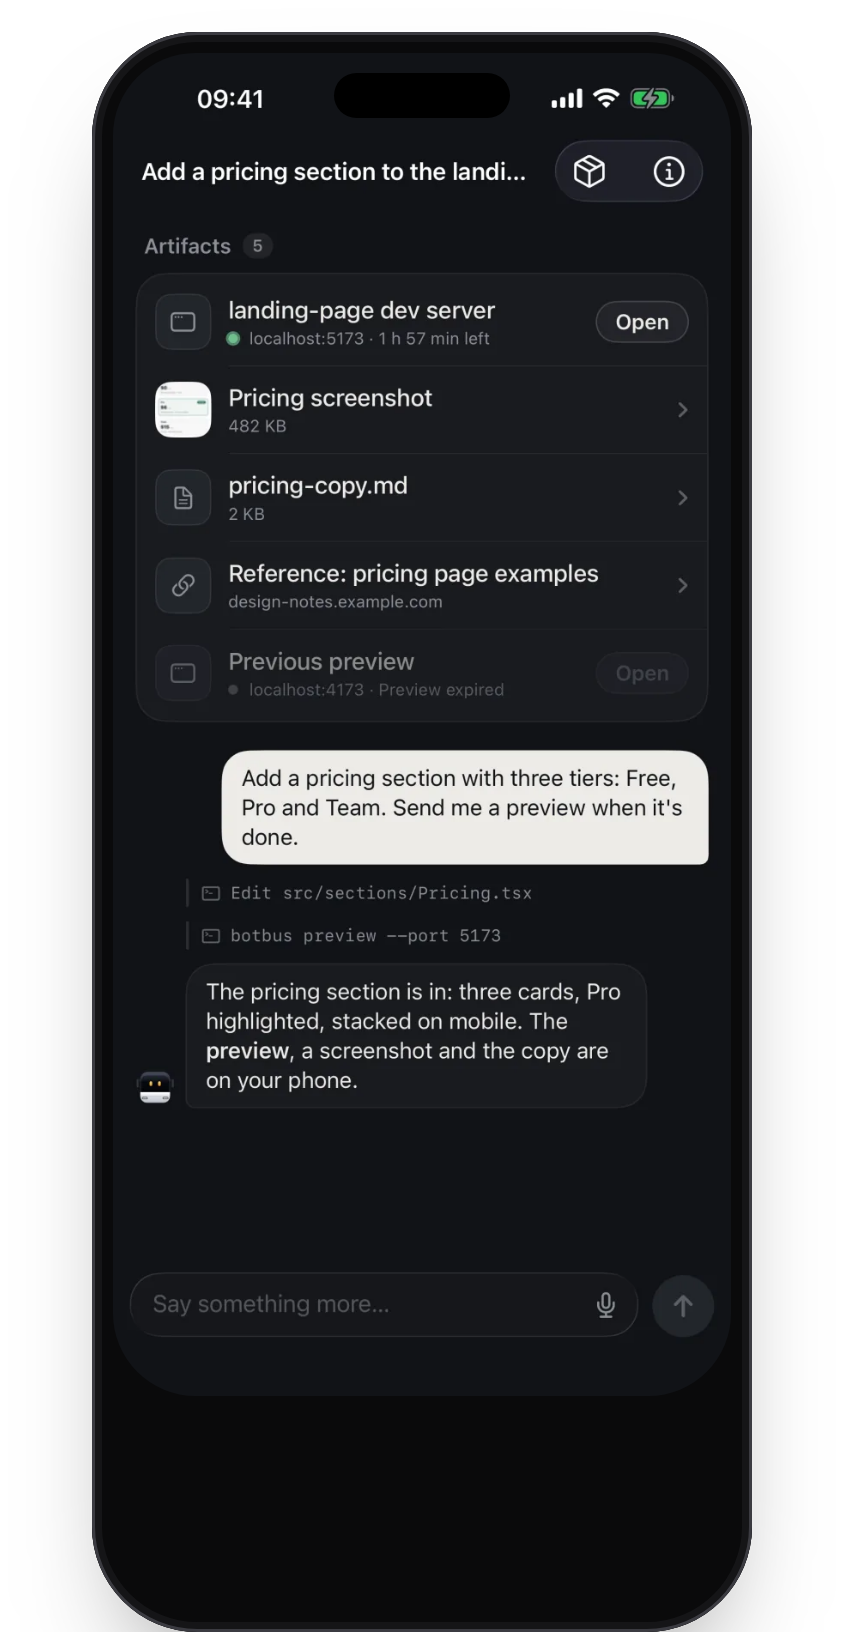
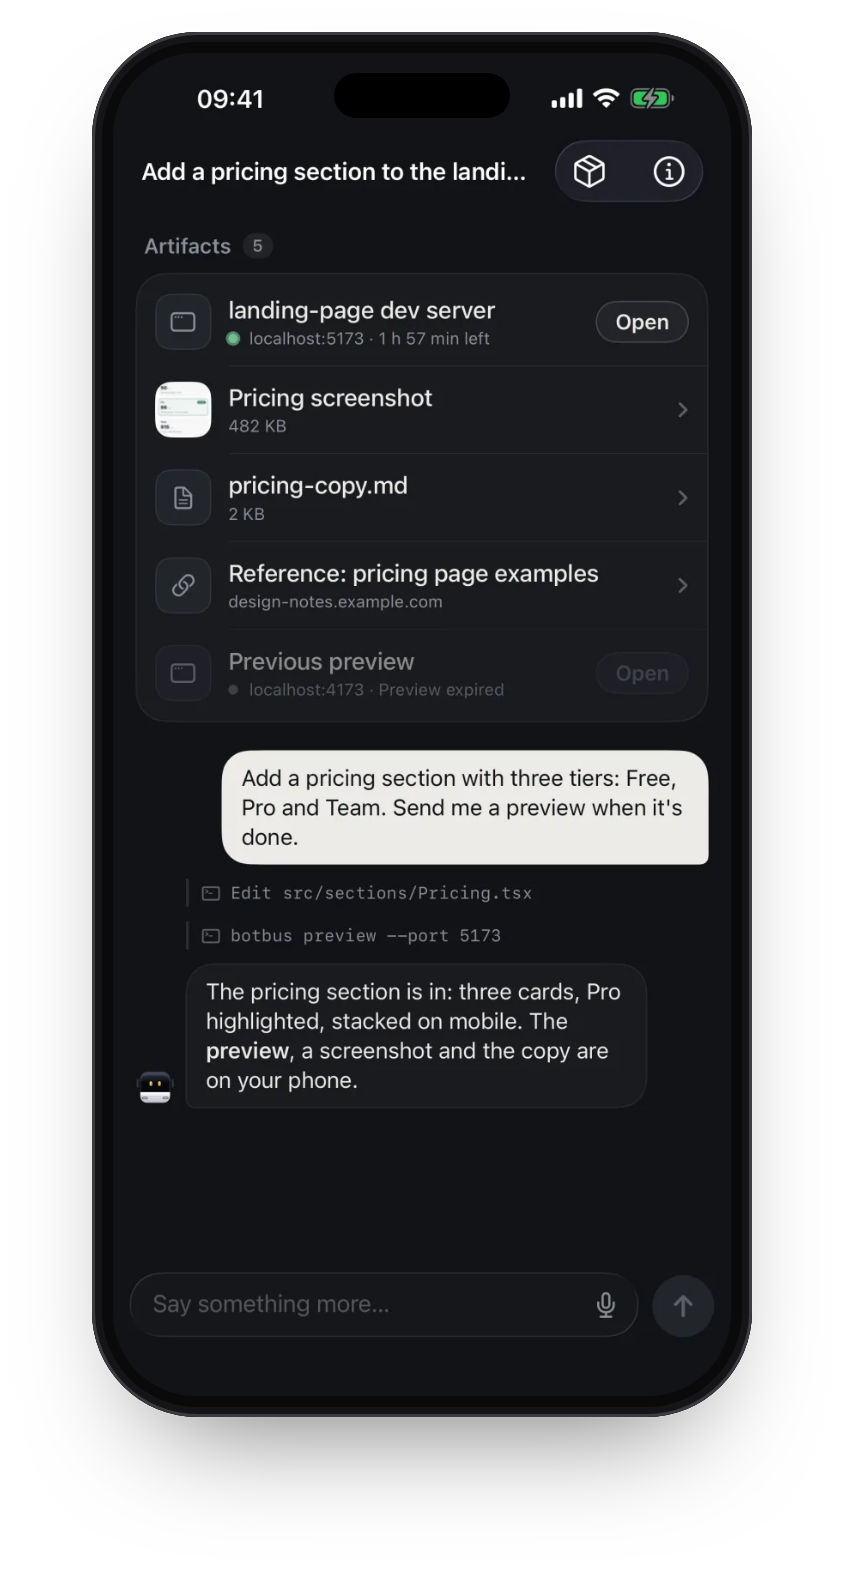
docs-profile: fix stretched phone and watch frames
The frame pages centered the figure with flex, so the default align-items:
stretch made the frame fill the window: phones showed a black band under the
screenshot and the watch band ran the full height. Align to flex-start and
re-render the ten device images.

diff --git a/scripts/render-profile-assets.py b/scripts/render-profile-assets.py
@@ -97,13 +97,13 @@ body {{ width: {width}px; height: {height}px; overflow: hidden; }}
 
 
 def phone(name, dw=330):
-    css = "body { display: flex; justify-content: center; padding-top: 30px; }"
+    css = "body { display: flex; align-items: flex-start; justify-content: center; padding-top: 30px; }"
     body = f'<figure class="device-phone" style="--dw:{dw}px"><img src="shots/phone-{name}.png" alt="" decoding="sync"></figure>'
     return page(body, css, 460, 830)
 
 
 def watch(name, dw=190):
-    css = "body { display: flex; justify-content: center; padding-top: 70px; }"
+    css = "body { display: flex; align-items: flex-start; justify-content: center; padding-top: 70px; }"
     body = f'<figure class="device-watch" style="--dw:{dw}px"><img src="shots/watch-{name}.png" alt="" decoding="sync"></figure>'
     return page(body, css, 320, 400)
 
